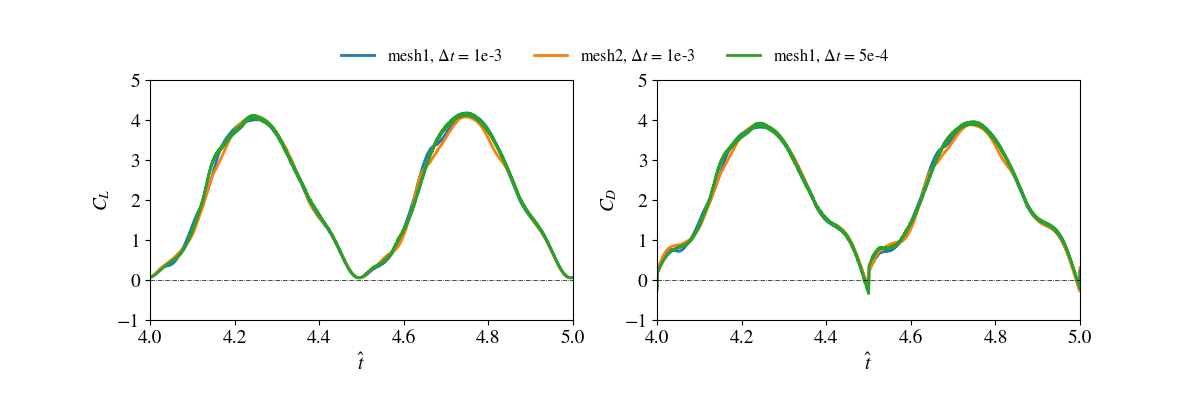
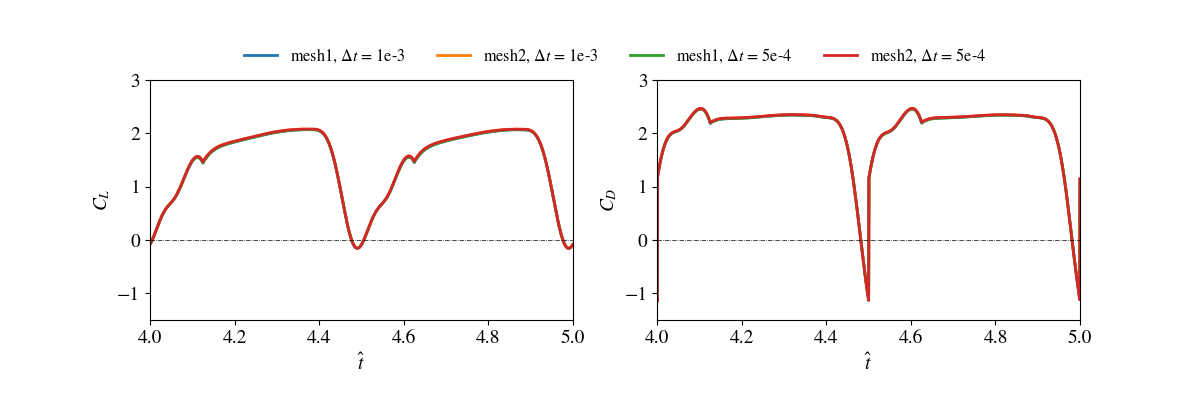
updated convergence and geometry

diff --git a/geometry_effect_fw_figures/figure_geometry/gplotting_functions.py b/geometry_effect_fw_figures/figure_geometry/gplotting_functions.py
@@ -63,7 +63,7 @@ def g_plotter(data_array, legends, marks, x_range, y_range, image_out_path):
         'mathtext.fontset': 'stix',
         'font.family': 'STIXGeneral',
         'font.size': 14,
-        'figure.figsize': (12, 4),
+        'figure.figsize': (10, 6),
         'lines.linewidth': 2,
         'lines.markersize': 0.1,
         'lines.markerfacecolor': 'white',
@@ -78,8 +78,8 @@ def g_plotter(data_array, legends, marks, x_range, y_range, image_out_path):
                  wspace=0.05,
                  hspace=0.0)
 
-    fig, axs = plt.subplots(nrows=2, ncols=2, gridspec_kw=gs_kw)
-    ax_all = [axs[0, 0], axs[0, 1], axs[1, 0], axs[1, 1]]
+    fig, axs = plt.subplots(nrows=3, ncols=1, gridspec_kw=gs_kw)
+    ax_all = axs
     for axi, datai, marker in zip(ax_all, data_array, marks):
         axi.set_aspect('equal')
         if x_range != 'all':
@@ -91,7 +91,7 @@ def g_plotter(data_array, legends, marks, x_range, y_range, image_out_path):
 
         single_plotter(axi, datai, legends, marker)
 
-        if axi == ax_all[1]:
+        if axi == ax_all[0]:
             axi.legend(loc='upper center',
                        bbox_to_anchor=(1.15, 1.0),
                        ncol=1,
@@ -123,6 +123,81 @@ def g_plotter(data_array, legends, marks, x_range, y_range, image_out_path):
                          annotation_clip=False)
 
     title = 'geometry plot'
+    out_image_file = os.path.join(image_out_path, title + '.png')
+
+    plt.savefig(out_image_file)
+    # plt.show()
+
+    return fig
+
+
+def g_plotter_ofs(data_array, legends, x_range, y_range, image_out_path):
+    """
+    function to plot cfd force coefficients results
+    """
+    plt.rcParams.update({
+        # "text.usetex": True,
+        'mathtext.fontset': 'stix',
+        'font.family': 'STIXGeneral',
+        'font.size': 14,
+        'figure.figsize': (10, 6),
+        'lines.linewidth': 2,
+        'lines.markersize': 0.1,
+        'lines.markerfacecolor': 'white',
+        'figure.dpi': 200,
+    })
+    data_array = np.array(data_array)
+
+    gs_kw = dict(left=0.125,
+                 right=0.8,
+                 top=0.8,
+                 bottom=0.1,
+                 wspace=0.05,
+                 hspace=0.0)
+
+    fig, axs = plt.subplots(nrows=1, ncols=1, gridspec_kw=gs_kw)
+    axi = axs
+    axi.set_aspect('equal')
+    if x_range != 'all':
+        axi.set_xlim(x_range)
+    if y_range != 'all':
+        axi.set_ylim(y_range)
+    axi.axis('off')
+    axi.axhline(y=0, color='k', linestyle='-.', linewidth=0.5)
+
+    single_plotter(axi, data_array, legends, 'Baseline wing')
+
+    axi.legend(loc='upper center',
+               bbox_to_anchor=(0.5, 1.15),
+               ncol=4,
+               fontsize='small',
+               frameon=False)
+
+    # if axi == ax_all[0]:
+    # axi.axvline(x=0, color='k', linestyle='-.', linewidth=0.5)
+
+    # axi.annotate(s=r'$r_R$',
+    # xy=(0.03, 0.03),
+    # ha='center',
+    # va='center',
+    # annotation_clip=False)
+
+    # axi.annotate(s=r'$o$',
+    # xy=(-0.012, 0.0),
+    # ha='center',
+    # va='center',
+    # annotation_clip=False)
+
+    # axi.annotate(s='',
+    # xy=(0.0, 0.015),
+    # xytext=(0.06, 0.015),
+    # arrowprops=dict(arrowstyle='<-',
+    # linestyle='-.',
+    # facecolor='k',
+    # lw=0.5),
+    # annotation_clip=False)
+
+    title = 'offset plot'
     out_image_file = os.path.join(image_out_path, title + '.png')
 
     plt.savefig(out_image_file)

diff --git a/geometry_effect_fw_figures/figure_geometry/geometry_figure_ofs.py b/geometry_effect_fw_figures/figure_geometry/geometry_figure_ofs.py
@@ -1,0 +1,33 @@
+"""plotting wing profiles"""
+import os
+import numpy as np
+
+from gplotting_functions import g_plotter_ofs, read_profile_data
+
+#-------------input plot control----------
+r1h = [0.5]
+ar = [3.0]
+offset = [0.0, 1.0, 2.0, 3.0]
+#-----------------------------------------
+x_range = [0, 0.54]
+y_range = [-0.12, 0.05]
+#---------------------------------------
+cwd = os.getcwd()
+data_dir = os.path.join(os.path.dirname(os.path.dirname(os.path.dirname(cwd))),
+                        'geometry_effect_fw_data/0_wing_profiles')
+image_out_path = cwd
+#---------------------------------------
+legends = [r'$\^r_R$ = ' + '{0:.1f}'.format(x) for x in offset]
+
+data_array = []
+for r1hi in r1h:
+    for ari in ar:
+        for ofs in offset:
+            datai = 'ar' + '{0:.1f}'.format(ari) + '_ofs' + '{0:.1f}'.format(
+                ofs) + '_r1h' + '{0:.1f}'.format(r1hi)
+            profile_datai = os.path.join(data_dir, datai + '.csv')
+            profile_arrayi = read_profile_data(profile_datai)
+
+            data_array.append(profile_arrayi)
+#---------------------------------------
+g_plotter_ofs(data_array, legends, x_range, y_range, image_out_path)

diff --git a/geometry_effect_fw_figures/figure_convergence/convergence_figure.py b/geometry_effect_fw_figures/figure_convergence/convergence_figure.py
@@ -5,22 +5,25 @@ from cplotting_functions import read_cfd_data, cf_plotter
 #-------------input plot control----------
 kinematics_file = 'kinematics_convergence.dat'
 cfd_data_list = [
-    'ar5.0_ofs0.0_r1h0.5__Re1000.0_pt0.25_basic',
-    'ar5.0_ofs0.0_r1h0.5__Re1000.0_pt0.25_sc',
-    'ar5.0_ofs0.0_r1h0.5__Re1000.0_pt0.25_tc'
+    'ar3.0_ofs0.0_r1h0.5__Re100.0_pt0.25_Ro1.68_basic',
+    'ar3.0_ofs0.0_r1h0.5__Re100.0_pt0.25_Ro1.68_sc',
+    'ar3.0_ofs0.0_r1h0.5__Re100.0_pt0.25_Ro1.68_tc',
+    'ar3.0_ofs0.0_r1h0.5__Re100.0_pt0.25_Ro1.68_sctc',
 ]
 #-----------------------------------------
 legends = [
     r'mesh1, $\Delta t$ = 1e-3',
     r'mesh2, $\Delta t$ = 1e-3',
     r'mesh1, $\Delta t$ = 5e-4',
+    r'mesh2, $\Delta t$ = 5e-4',
 ]
 #-----------------------------------------
 time_to_plot = 'all'
 coeffs_show_range = 'all'
 time_to_plot = [4.0, 5.0]
-show_range_cl = [-1.0, 5.0]
-show_range_cd = [-1.0, 5.0]
+show_range_cl = [-1.5, 3.0]
+show_range_cd = show_range_cl
+# show_range_cd = [-1.0, 5.0]
 cycle_time = 1.0
 #---------------------------------------
 show_range = [show_range_cl, show_range_cd]

diff --git a/geometry_effect_fw_figures/figure_geometry/geometry_figure_shape.py b/geometry_effect_fw_figures/figure_geometry/geometry_figure_shape.py
@@ -5,7 +5,7 @@ import numpy as np
 from gplotting_functions import g_plotter, read_profile_data
 
 #-------------input plot control----------
-r1h = [0.4, 0.5, 0.6, 0.7]
+r1h = [0.4, 0.5, 0.6]
 ar = [1.5, 3.0, 4.5, 6.0, 7.5]
 ofs = 1.0
 #-----------------------------------------
